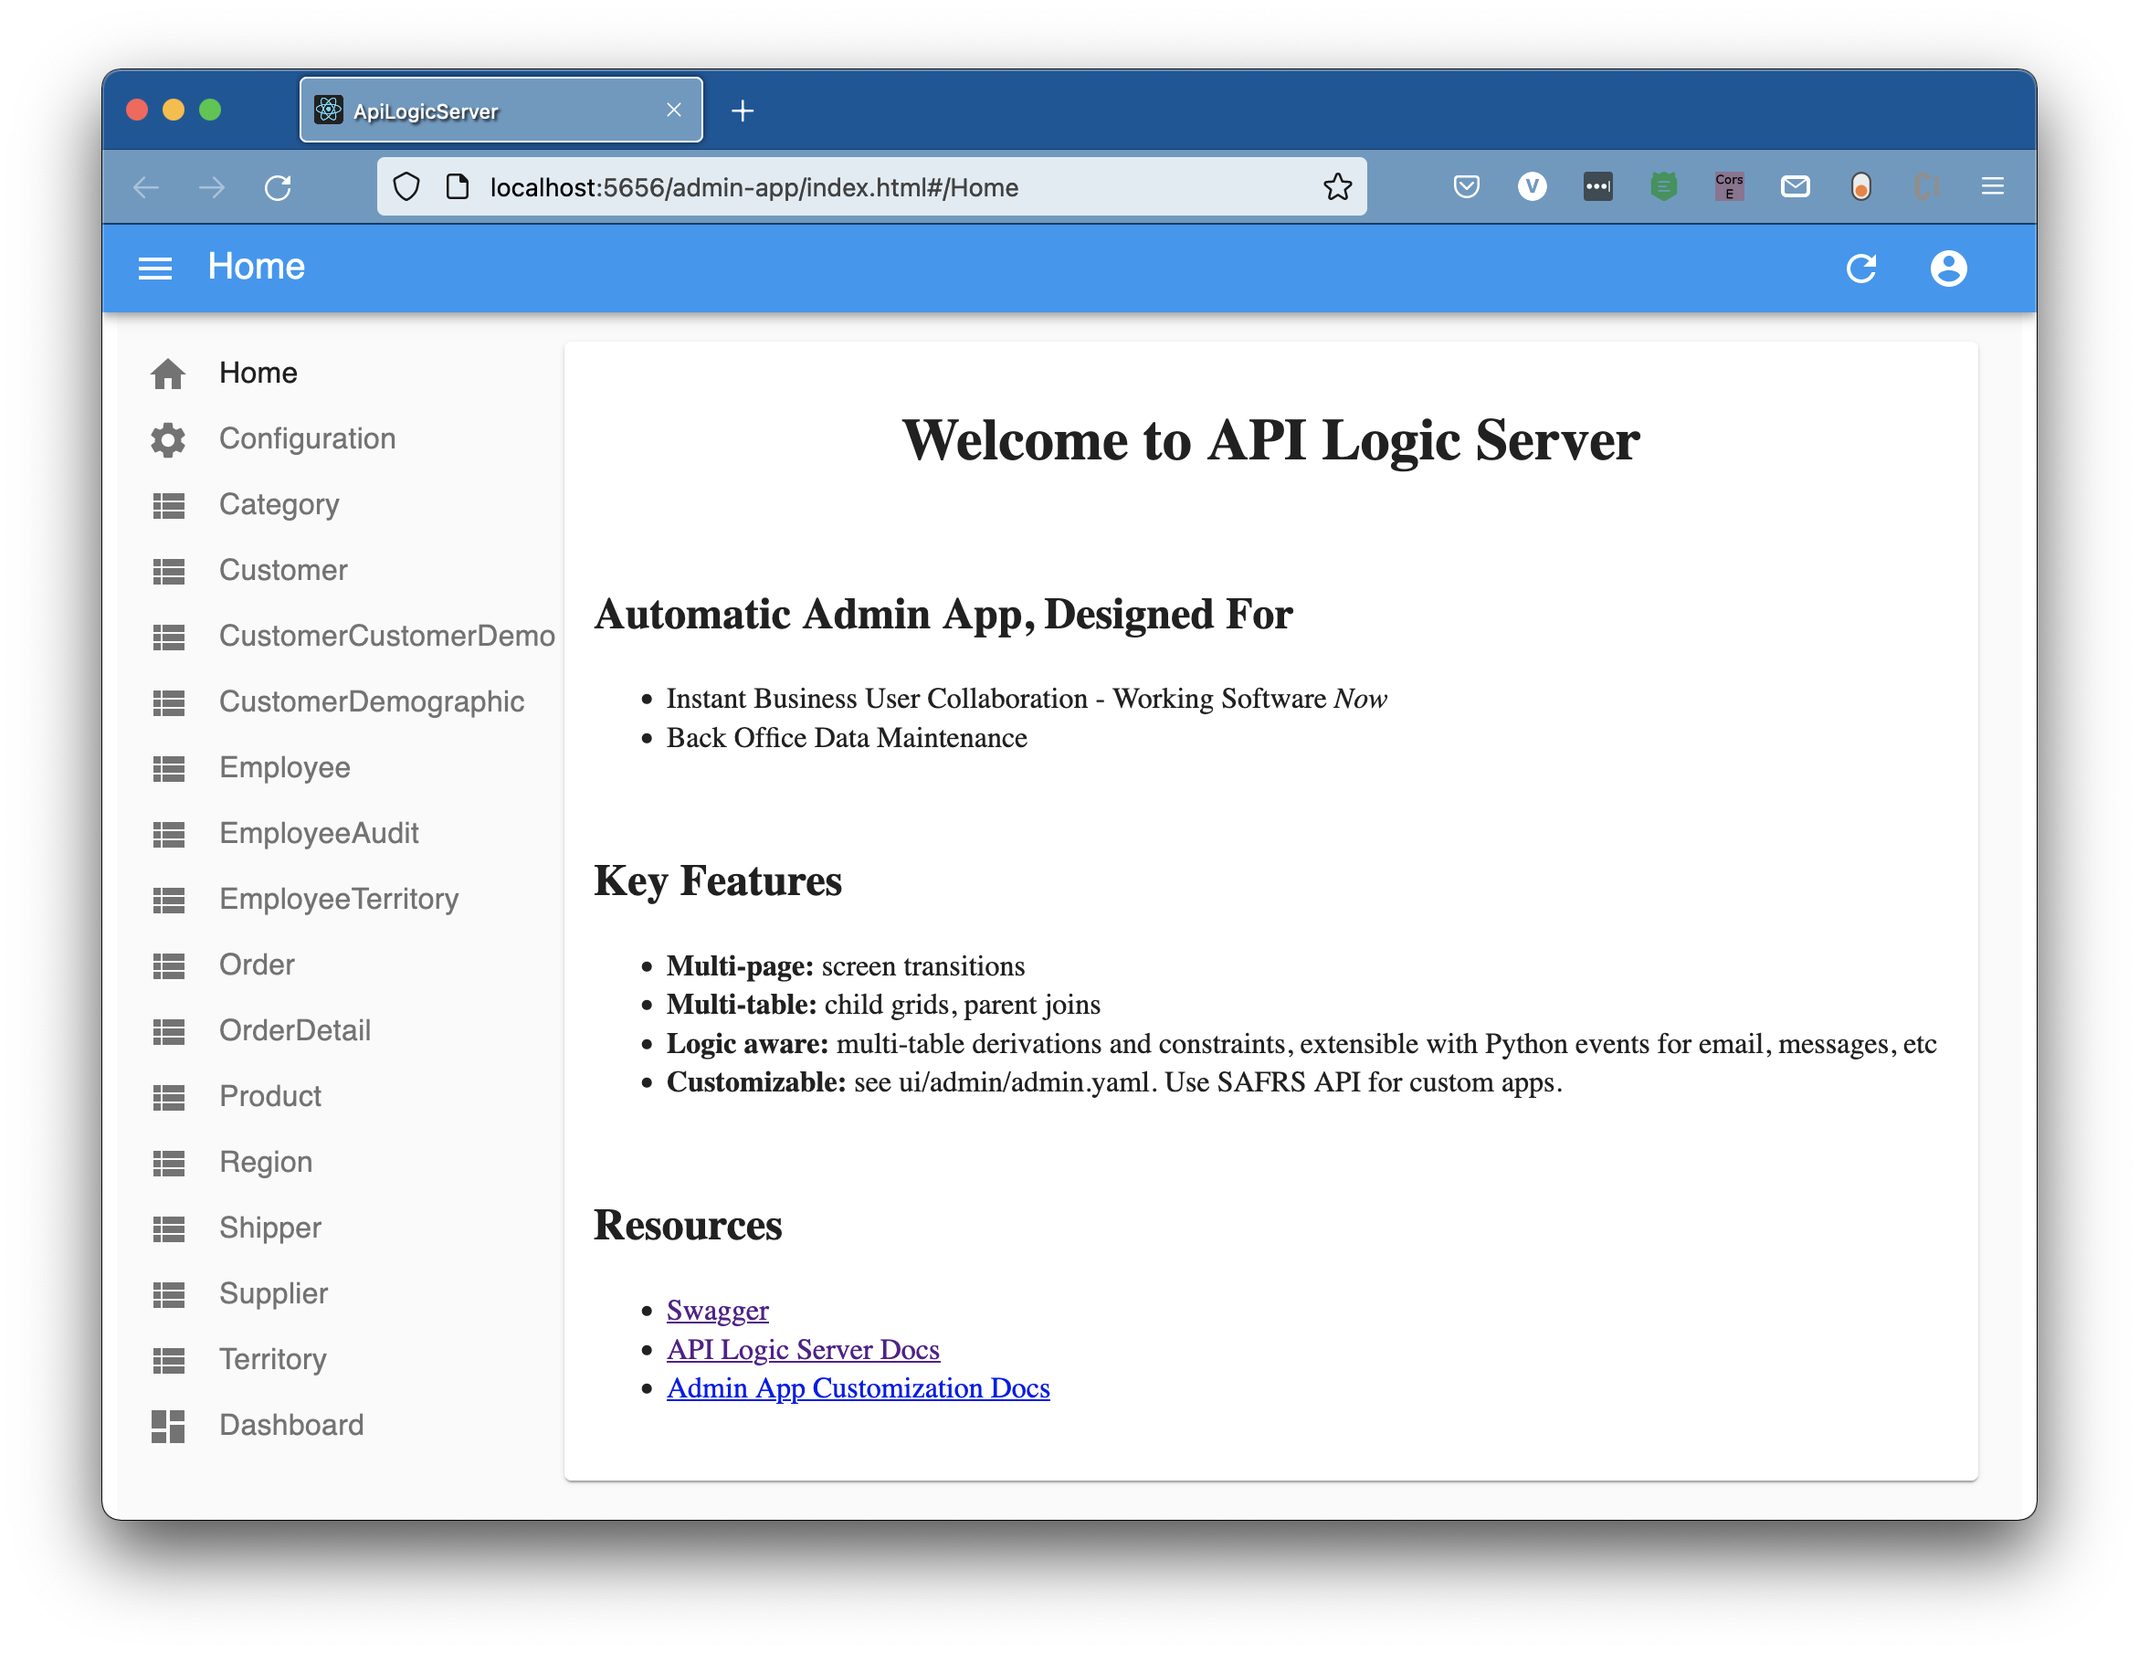
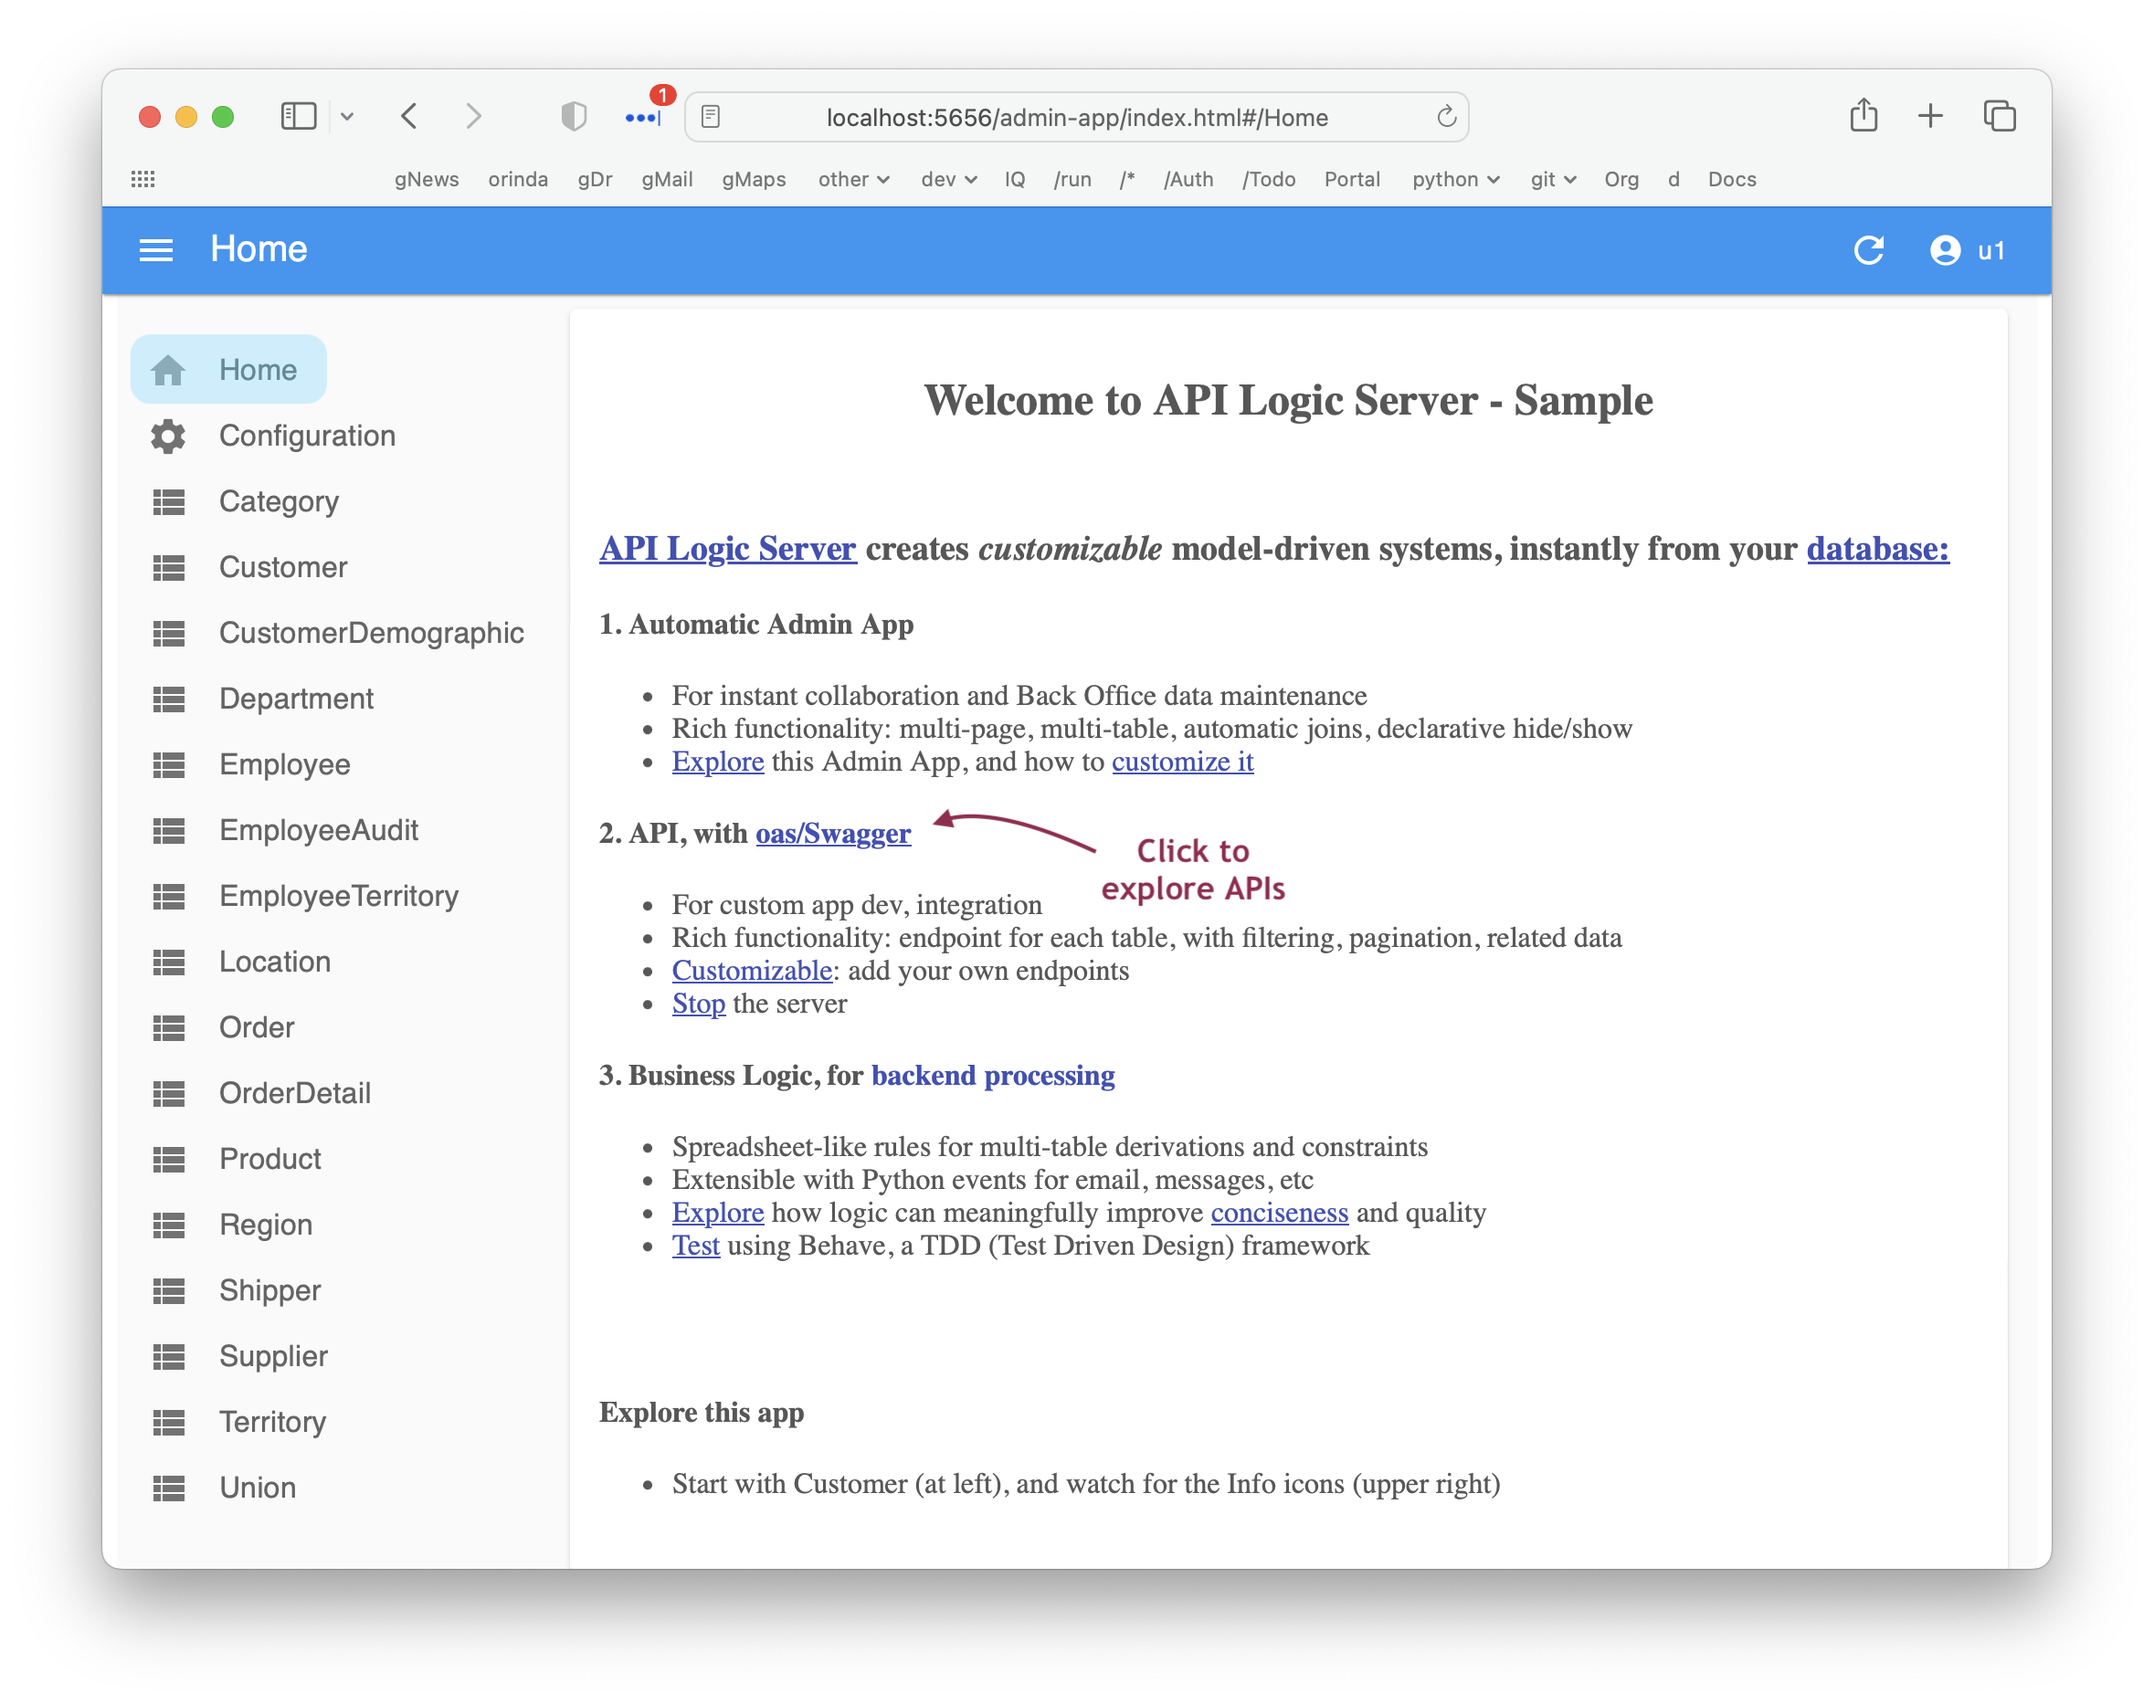
better nutshell

Changed region(s): [[0.0312, 0.0309, 0.9663, 0.9581], [0.2805, 0.3091, 0.9039, 0.4945]]

diff --git a/docs/index.md b/docs/index.md
@@ -133,6 +133,13 @@ Here is a quick screen-shot demo of the basic process:
 
     *** Admin App***
 
+    Launch the Admin App shows the home page:
+
+    ![Admin App](images/ui-admin/admin-home.png)
+
+
+    Click the nav menu left to explore your data:
+
     ![Admin App](images/ui-admin/Order-Page.png)
 
     &nbsp;
@@ -147,20 +154,21 @@ Here is a quick screen-shot demo of the basic process:
 
 === "3. Customize API"
 
-    **Standards-based customization** - use your IDE, and standard packages such as Flask and SQLAlchemy:
+    **Standards-based customization** - use your IDE, and standard packages such as Flask and SQLAlchemy.  Here, we add a custom nested resultset Flask API, using SQLAlchemy to retrieve the data:
 
     ![Customize API](images/api/custom-api-nested-result.png)
 
     &nbsp;
 
-    You can also make the endpoint part of your swagger:
+    Use a `safrsJABase` class to create an endpoint shown in the swagger:
 
     ![Customize API](images/nutshell/customize-api.png)
 
 
 === "4. Customize Logic"
 
-    Customization includes **declarative logic, using rules.**  Create and debug these, using Python and your IDE (e.g., code completion, debugger):
+    Customization includes **declarative logic, using rules.**  Create and debug these, using [Python and your IDE](../Tech-DSL)
+ (e.g., code completion, debugger):
 
     ![Declarative Logic](images/nutshell/declare-logic.png)
 
